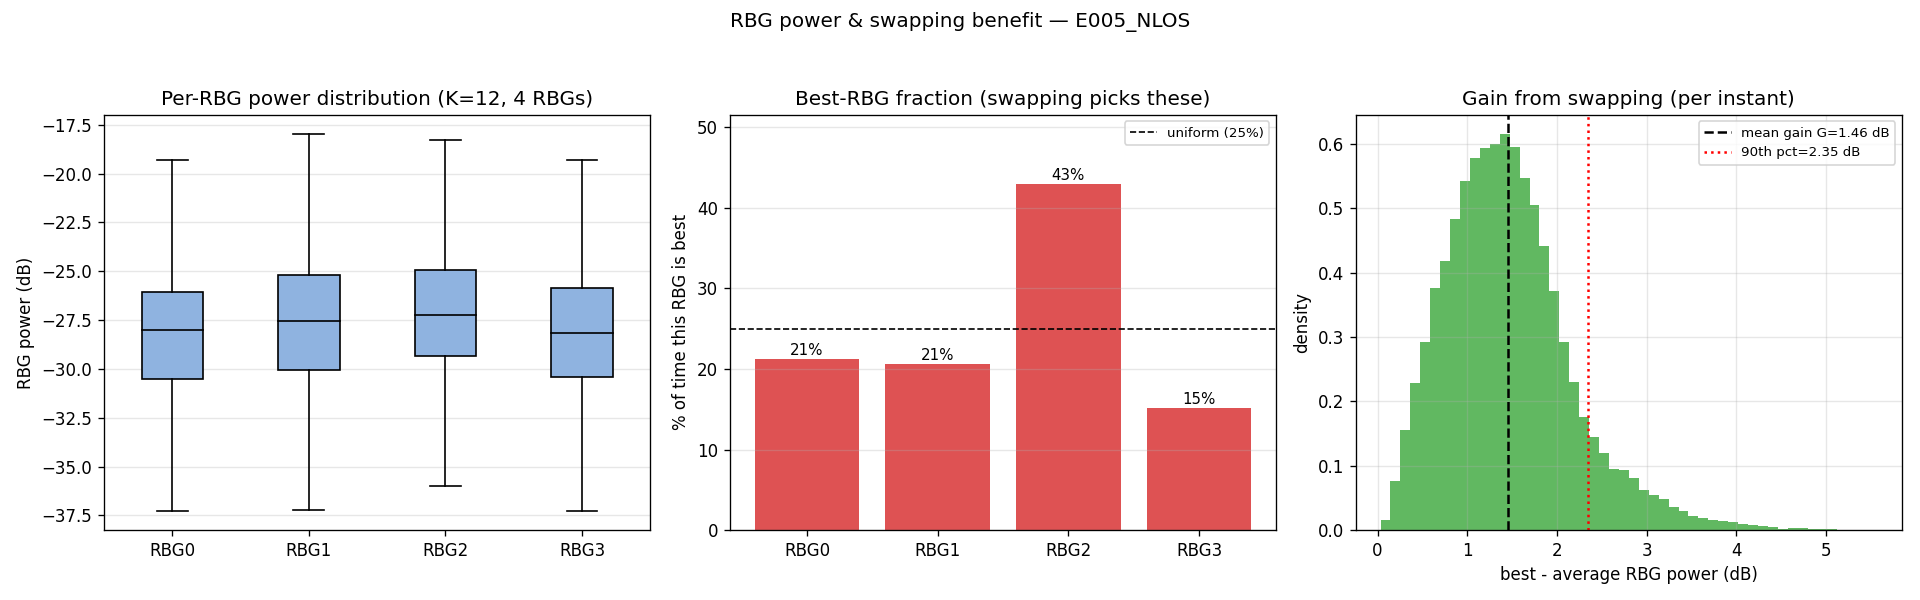
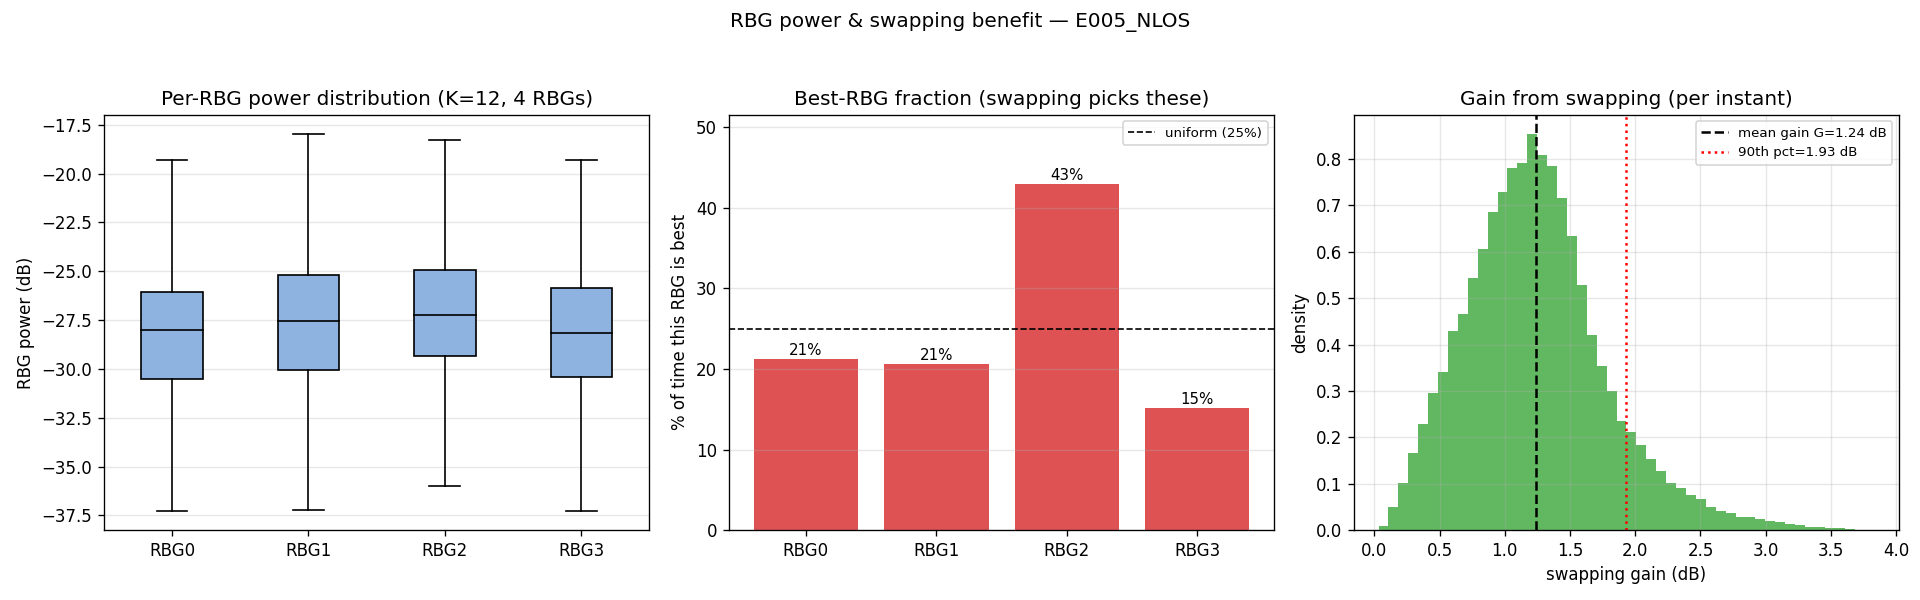
plot_rbg_power: arithmetic-mean baseline (best/mean linear), regen E00 power figures
Panel-3 gain was best - mean(dB) = best/geomean; now 10log10(best/arith-mean).
G and p90 drop vs prior (E0055: G 1.70->1.37, p90 3.28->2.47). Panels 1-2 unchanged.
E000 power figure added (was missing). E005_NLOS included.

diff --git a/tools/plot_rbg_power.py b/tools/plot_rbg_power.py
@@ -10,13 +10,16 @@ Usage:
   python3 plot_rbg_power.py CAP.rb.jsonl[.gz] [-o out.png] [--K 12]
     [--trim-start 1.0] [--trim-end 1.0] [--reattach-guard 10]
 """
+
 import argparse, gzip, json, sys
 import numpy as np
 import matplotlib
+
 matplotlib.use("Agg")
 import matplotlib.pyplot as plt
 
 RBBW = 0.36e6
+
 
 def load(path, trim_start, trim_end):
     op = gzip.open if path.endswith(".gz") else open
@@ -24,28 +27,50 @@ def load(path, trim_start, trim_end):
     with op(path, "rt") as f:
         for line in f:
             line = line.strip()
-            if not line: continue
-            try: d = json.loads(line)
-            except json.JSONDecodeError: continue
-            T.append(d["t"]); P.append(d["rb"]); RN.append(d.get("rnti", -1))
-    if not P: sys.exit("no samples in " + path)
-    T = np.array(T, float); P = np.array(P, float); RN = np.array(RN)
+            if not line:
+                continue
+            try:
+                d = json.loads(line)
+            except json.JSONDecodeError:
+                continue
+            T.append(d["t"])
+            P.append(d["rb"])
+            RN.append(d.get("rnti", -1))
+    if not P:
+        sys.exit("no samples in " + path)
+    T = np.array(T, float)
+    P = np.array(P, float)
+    RN = np.array(RN)
     P = P[:, 1:]
     mins = (T - T[0]) / 60000.0
     k = (mins >= trim_start) & (mins <= mins[-1] - trim_end)
-    if k.sum() < 100: k = np.ones(len(mins), bool)
+    if k.sum() < 100:
+        k = np.ones(len(mins), bool)
     P, RN = P[k], RN[k]
     fs = 1000.0 / np.median(np.diff(T[k])) if k.sum() > 1 else 100.0
     return P, fs, RN
 
+
 def to_ru_db(P, K):
     R = P.shape[1] // K
-    return 10*np.log10(np.maximum(
-        np.stack([P[:, r*K:(r+1)*K].sum(1) for r in range(R)], 1), 1e-15))
+    return 10 * np.log10(
+        np.maximum(
+            np.stack([P[:, r * K : (r + 1) * K].sum(1) for r in range(R)], 1), 1e-15
+        )
+    )
+
+
+def to_ru_lin(P, K):
+    R = P.shape[1] // K
+    return np.maximum(
+        np.stack([P[:, r * K : (r + 1) * K].sum(1) for r in range(R)], 1), 1e-15
+    )
+
 
 def main():
     ap = argparse.ArgumentParser()
-    ap.add_argument("cap"); ap.add_argument("-o","--out", default="rbg_power.png")
+    ap.add_argument("cap")
+    ap.add_argument("-o", "--out", default="rbg_power.png")
     ap.add_argument("--K", type=int, default=12)
     ap.add_argument("--trim-start", type=float, default=1.0)
     ap.add_argument("--trim-end", type=float, default=1.0)
@@ -56,65 +81,93 @@ def main():
     P, fs, RN = load(a.cap, a.trim_start, a.trim_end)
     # re-attach guard
     if a.reattach_guard > 0 and len(RN) > 1:
-        g = int(round(a.reattach_guard*fs))
+        g = int(round(a.reattach_guard * fs))
         keep = np.ones(len(RN), bool)
-        for c in [i for i in range(1,len(RN)) if RN[i]!=RN[i-1]]:
-            keep[max(0,c-g):min(len(RN),c+g)] = False
-        if keep.sum() > 100: P = P[keep]
+        for c in [i for i in range(1, len(RN)) if RN[i] != RN[i - 1]]:
+            keep[max(0, c - g) : min(len(RN), c + g)] = False
+        if keep.sum() > 100:
+            P = P[keep]
 
-    M = to_ru_db(P, a.K)          # (time, R) per-RBG power dB
+    Plin = to_ru_lin(P, a.K)  # (time, R) linear per-RBG power
+    M = 10 * np.log10(Plin)  # dB, for panel 1 + best-fraction
     R = M.shape[1]
     label = a.label if a.label else a.cap.split("/")[-1]
 
-    best = M.argmax(1)            # which RBG is best each sample
-    best_frac = np.array([100*(best==r).mean() for r in range(R)])
-    gain = M.max(1) - M.mean(1)   # dB gain of best over average, per sample
+    best = M.argmax(1)
+    best_frac = np.array([100 * (best == r).mean() for r in range(R)])
+    gain = 10 * np.log10(Plin.max(1) / Plin.mean(1))  # best / arithmetic-mean, dB
 
     fig, ax = plt.subplots(1, 3, figsize=(16, 5))
 
     # Panel 1: per-RBG power distribution (box plot)
-    ax[0].boxplot([M[:,r] for r in range(R)], labels=[f"RBG{r}" for r in range(R)],
-                  showfliers=False, patch_artist=True,
-                  boxprops=dict(facecolor="#8fb3e0"), medianprops=dict(color="k"))
+    ax[0].boxplot(
+        [M[:, r] for r in range(R)],
+        labels=[f"RBG{r}" for r in range(R)],
+        showfliers=False,
+        patch_artist=True,
+        boxprops=dict(facecolor="#8fb3e0"),
+        medianprops=dict(color="k"),
+    )
     ax[0].set_ylabel("RBG power (dB)")
     ax[0].set_title(f"Per-RBG power distribution (K={a.K}, {R} RBGs)")
     ax[0].grid(alpha=0.3, axis="y")
 
     # Panel 2: best-RBG fraction (bar)
-    bars = ax[1].bar([f"RBG{r}" for r in range(R)], best_frac,
-                     color="#d62728", alpha=0.8)
+    bars = ax[1].bar(
+        [f"RBG{r}" for r in range(R)], best_frac, color="#d62728", alpha=0.8
+    )
     for b, f in zip(bars, best_frac):
-        ax[1].text(b.get_x()+b.get_width()/2, f+0.5, f"{f:.0f}%",
-                   ha="center", fontsize=9)
-    ax[1].axhline(100/R, ls="--", c="k", lw=1, label=f"uniform ({100/R:.0f}%)")
+        ax[1].text(
+            b.get_x() + b.get_width() / 2, f + 0.5, f"{f:.0f}%", ha="center", fontsize=9
+        )
+    ax[1].axhline(100 / R, ls="--", c="k", lw=1, label=f"uniform ({100/R:.0f}%)")
     ax[1].set_ylabel("% of time this RBG is best")
     ax[1].set_title("Best-RBG fraction (swapping picks these)")
-    ax[1].set_ylim(0, max(best_frac)*1.2); ax[1].grid(alpha=0.3, axis="y"); ax[1].legend(fontsize=8)
+    ax[1].set_ylim(0, max(best_frac) * 1.2)
+    ax[1].grid(alpha=0.3, axis="y")
+    ax[1].legend(fontsize=8)
 
     # Panel 3: gain-from-swapping distribution
     ax[2].hist(gain, bins=50, color="#2ca02c", alpha=0.75, density=True)
-    ax[2].axvline(gain.mean(), color="k", ls="--", lw=1.5,
-                  label=f"mean gain G={gain.mean():.2f} dB")
-    ax[2].axvline(np.percentile(gain,90), color="r", ls=":", lw=1.5,
-                  label=f"90th pct={np.percentile(gain,90):.2f} dB")
-    ax[2].set_xlabel("best - average RBG power (dB)")
+    ax[2].axvline(
+        gain.mean(),
+        color="k",
+        ls="--",
+        lw=1.5,
+        label=f"mean gain G={gain.mean():.2f} dB",
+    )
+    ax[2].axvline(
+        np.percentile(gain, 90),
+        color="r",
+        ls=":",
+        lw=1.5,
+        label=f"90th pct={np.percentile(gain,90):.2f} dB",
+    )
+    ax[2].set_xlabel("swapping gain (dB)")
     ax[2].set_ylabel("density")
     ax[2].set_title("Gain from swapping (per instant)")
-    ax[2].grid(alpha=0.3); ax[2].legend(fontsize=8)
+    ax[2].grid(alpha=0.3)
+    ax[2].legend(fontsize=8)
 
     fig.suptitle(f"RBG power & swapping benefit — {label}", fontsize=12)
-    fig.tight_layout(rect=[0,0,1,0.95])
+    fig.tight_layout(rect=[0, 0, 1, 0.95])
     fig.savefig(a.out, dpi=120)
 
     # text summary
-    txt = a.out.rsplit(".",1)[0]+"_power.txt"
-    L=[f"dataset: {label}   K={a.K} -> {R} RBGs   samples={len(M)}",
-       "best-RBG fraction: " + ", ".join(f"RBG{r}={best_frac[r]:.1f}%" for r in range(R)),
-       f"gain from swapping: mean={gain.mean():.2f} dB  median={np.median(gain):.2f} dB  "
-       f"p90={np.percentile(gain,90):.2f} dB  p10={np.percentile(gain,10):.2f} dB",
-       "per-RBG median power (dB): " + ", ".join(f"RBG{r}={np.median(M[:,r]):.1f}" for r in range(R))]
-    open(txt,"w").write("\n".join(L)+"\n")
-    print("\n".join(L)); print("wrote", a.out, "and", txt)
+    txt = a.out.rsplit(".", 1)[0] + "_power.txt"
+    L = [
+        f"dataset: {label}   K={a.K} -> {R} RBGs   samples={len(M)}",
+        "best-RBG fraction: "
+        + ", ".join(f"RBG{r}={best_frac[r]:.1f}%" for r in range(R)),
+        f"gain from swapping: mean={gain.mean():.2f} dB  median={np.median(gain):.2f} dB  "
+        f"p90={np.percentile(gain,90):.2f} dB  p10={np.percentile(gain,10):.2f} dB",
+        "per-RBG median power (dB): "
+        + ", ".join(f"RBG{r}={np.median(M[:,r]):.1f}" for r in range(R)),
+    ]
+    open(txt, "w").write("\n".join(L) + "\n")
+    print("\n".join(L))
+    print("wrote", a.out, "and", txt)
+
 
 if __name__ == "__main__":
     main()
